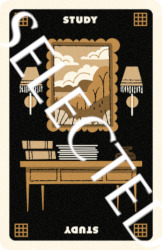
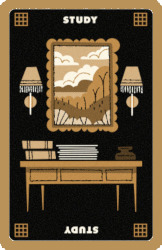
Implemented logic to move player sprites to hallways. - added hallway location points and modified the sprite move logic to determine if room is a hallway or not.
Created image assets for Selected Room cards. Room cards will show a gold border when selected in the move dialog.
- Added Cards for Hallways.

Changed region(s): [[0.0, 0.0, 1.0, 1.0], [0.1543, 0.224, 0.4012, 0.42]]

diff --git a/src/edu/jhu/teamundecided/clueless/database/RoomPoints.java b/src/edu/jhu/teamundecided/clueless/database/RoomPoints.java
@@ -11,6 +11,7 @@ public class RoomPoints
     private static RoomPoints _roomPoints = null;
 
     private HashMap<String, Point> _roomOffsets;
+    private HashMap<String, Point> _hallwayPositions;
 
     private ArrayList<Point> oneOccupant;
     private ArrayList<Point> twoOccupant;
@@ -26,6 +27,7 @@ public class RoomPoints
 
         setupRoomOffsets();
         setupOccupantPositions();
+        setupHallwayPositions();
     }
 
     public static RoomPoints getInstance()
@@ -96,6 +98,33 @@ public class RoomPoints
         sixOccupant.add(new Point(roomCP.getX() + 30, roomCP.getY() + 3));
     }
 
+    private void setupHallwayPositions()
+    {
+        _hallwayPositions = new HashMap<>();
+
+        _hallwayPositions.put("hallway_1", new Point(250 - spriteCP.getX(),100 - spriteCP.getY()));
+        _hallwayPositions.put("hallway_2", new Point(550 - spriteCP.getX(),100 - spriteCP.getY()));
+
+        _hallwayPositions.put("hallway_3", new Point(100 - spriteCP.getX(),250 - spriteCP.getY()));
+        _hallwayPositions.put("hallway_4", new Point(400 - spriteCP.getX(),250 - spriteCP.getY()));
+        _hallwayPositions.put("hallway_5", new Point(700 - spriteCP.getX(),250 - spriteCP.getY()));
+
+        _hallwayPositions.put("hallway_6", new Point(250 - spriteCP.getX(),350 - spriteCP.getY()));
+        _hallwayPositions.put("hallway_7", new Point(550 - spriteCP.getX(),350 - spriteCP.getY()));
+
+        _hallwayPositions.put("hallway_8", new Point(100 - spriteCP.getX(),550 - spriteCP.getY()));
+        _hallwayPositions.put("hallway_9", new Point(400 - spriteCP.getX(),550 - spriteCP.getY()));
+        _hallwayPositions.put("hallway_10", new Point(700 - spriteCP.getX(),550 - spriteCP.getY()));
+
+        _hallwayPositions.put("hallway_11", new Point(250 - spriteCP.getX(),700 - spriteCP.getY()));
+        _hallwayPositions.put("hallway_12", new Point(550 - spriteCP.getX(),700 - spriteCP.getY()));
+    }
+
+    public Point getHallwayPosition(String key)
+    {
+        return _hallwayPositions.get(key);
+    }
+
     private ArrayList<Point> getOccupantPositionList(int number)
     {
         switch(number)
@@ -120,13 +149,19 @@ public class RoomPoints
     {
         ArrayList<Point> updateLocations = new ArrayList<>();
 
-        Point roomOffset = _roomOffsets.get(roomName);
-
-        System.out.println("Occupant Number: " + occupantNum);
-
-        for(Point point : getOccupantPositionList(occupantNum))
+        Point roomPoint;
+        if(roomName.startsWith("hallway_"))
         {
-            updateLocations.add(new Point(point.getX() + roomOffset.getX(), point.getY() + roomOffset.getY()));
+            roomPoint = _hallwayPositions.get(roomName);
+            updateLocations.add(new Point(roomPoint.getX(), roomPoint.getY()));
+        }
+        else // normal room
+        {
+            roomPoint = _roomOffsets.get(roomName);
+            for (Point point : getOccupantPositionList(occupantNum))
+            {
+                updateLocations.add(new Point(point.getX() + roomPoint.getX(), point.getY() + roomPoint.getY()));
+            }
         }
 
         return updateLocations;

diff --git a/src/edu/jhu/teamundecided/clueless/database/Database.java b/src/edu/jhu/teamundecided/clueless/database/Database.java
@@ -11,6 +11,7 @@ public class Database
     private HashMap<String, Point> _startingLocations;
     private LinkedHashMap<String, String> _roomNames;
     private LinkedHashMap<String, String> _weaponNames;
+    private HashMap<String, String> _hallwayDirections;
 
     private ArrayList<String> _disabledCharacters;
 
@@ -24,6 +25,7 @@ public class Database
         setupStartingLocations();
         setupRoomNames();
         setupWeaponNames();
+        setupHallwayDirections();
         _disabledCharacters = new ArrayList<>();
     }
 
@@ -112,5 +114,30 @@ public class Database
     public synchronized ArrayList<String> getDisabledCharacters()
     {
         return _disabledCharacters;
+    }
+
+    private void setupHallwayDirections()
+    {
+        _hallwayDirections = new HashMap<>();
+        _hallwayDirections.put("ballroom", "hallway_9,north:hallway_11,west:hallway_12,east");
+        _hallwayDirections.put("billiardroom", "hallway_4,north:hallway_6,west:hallway_7,east:hallway_9,south");
+        _hallwayDirections.put("conservatory", "hallway_8,north:hallway_11,east");
+        _hallwayDirections.put("diningroom", "hallway_5,north:hallway_7,west:hallway_10,south");
+        _hallwayDirections.put("hall", "hallway_1,west:hallway_2,east:hallway_4,south");
+        _hallwayDirections.put("kitchen", "hallway_10,north:hallway_12,west");
+        _hallwayDirections.put("library", "hallway_3,north:hallway_6,east:hallway_8,south");
+        _hallwayDirections.put("lounge", "hallway_2,west:hallway_5,south");
+        _hallwayDirections.put("study", "hallway_1,east:hallway_3,south");
+        _hallwayDirections.put("ScarlettStartLoc", "hallway_2,south");
+        _hallwayDirections.put("MustardStartLoc", "hallway_5,west");
+        _hallwayDirections.put("GreenStartLoc", "hallway_11,north");
+        _hallwayDirections.put("PeacockStartLoc", "hallway_8,east");
+        _hallwayDirections.put("WhiteStartLoc", "hallway_12,north");
+        _hallwayDirections.put("PlumStartLoc", "hallway_3,east");
+    }
+
+    public String getHallwayDirections(String key)
+    {
+        return _hallwayDirections.get(key);
     }
 }

diff --git a/src/edu/jhu/teamundecided/clueless/client/dialogs/DialogController.java b/src/edu/jhu/teamundecided/clueless/client/dialogs/DialogController.java
@@ -59,18 +59,53 @@ public class DialogController
 
     public JPanel getMovePanel()
     {
-        String[] options = getMoveOptions().split(":");
-
+        String[] options;
+        String[] hallwayDir = new String[0];
         JPanel movePanel = new JPanel();
-
         ButtonGroup moveButtonGroup = new ButtonGroup();
-
         resetMoveList();
+
+        // CHECK FOR HALLWAYS
+        if(getMoveOptions().contains("#"))
+        {
+            // SPLIT OUT DIRECTIONS
+            String[] temp = getMoveOptions().split("#");
+
+            options = temp[0].split(":"); // room names
+            hallwayDir = temp[1].split(":"); // hallway directions
+        }
+        else
+        {
+            // NO HALLWAYS
+            options = getMoveOptions().split(":");
+        }
 
         for (String option : options)
         {
-            JRadioButton temp = new JRadioButton(new ImageIcon(_cardFilepath + "rooms/" + option + ".jpg"));
-            temp.setSelectedIcon(new ImageIcon(_cardFilepath + "rooms/selected/" + option + "Selected.jpg"));
+            JRadioButton temp;
+
+            // OPTION IS A HALLWAY, GET DIRECTION
+            if(option.contains("hallway_"))
+            {
+                String hallwayDirection = "";
+                for(String dir : hallwayDir)
+                {
+                    if(dir.startsWith(option))
+                    {
+                        hallwayDirection = dir.split(",")[1];
+                    }
+                }
+
+                temp = new JRadioButton(new ImageIcon(_cardFilepath + "rooms/" + hallwayDirection + ".jpg"));
+                temp.setSelectedIcon(new ImageIcon(_cardFilepath + "rooms/selected/" + hallwayDirection + "Selected.jpg"));
+            }
+            // NOT A HALLWAY
+            else
+            {
+                temp = new JRadioButton(new ImageIcon(_cardFilepath + "rooms/" + option + ".jpg"));
+                temp.setSelectedIcon(new ImageIcon(_cardFilepath + "rooms/selected/" + option + "Selected.jpg"));
+            }
+
             temp.setName(option);
             moveButtonGroup.add(temp);
             moveList.add(temp);

diff --git a/src/edu/jhu/teamundecided/clueless/server/ClientHandler.java b/src/edu/jhu/teamundecided/clueless/server/ClientHandler.java
@@ -161,10 +161,17 @@ public class ClientHandler extends Thread
 //        {
 //            moves.append(":" + roomname);
 //        }
+//
+//        if(_player.getLocation().getIsHall())
+//        {
+//            moves.append("#").append(database.getHallwayDirections(_player.getLocation().getRoomName()));
+//        }
 //        writeToClient(moves.toString());
 
+        // Hallway Directions
+
         // DEMO CODE
-        writeToClient("moveDialog:study:study:study");
+        writeToClient("moveDialog:hallway_1:hallway_2:hallway_4#" + database.getHallwayDirections("hall"));
     }
 
     public void updateLocations(String roomname)

diff --git a/src/edu/jhu/teamundecided/clueless/client/gameboard/ClientGameBoard.java b/src/edu/jhu/teamundecided/clueless/client/gameboard/ClientGameBoard.java
@@ -94,7 +94,7 @@ public class ClientGameBoard extends JPanel
             {
                 try
                 {
-                    Thread.sleep(80);
+                    Thread.sleep(25);
                 }
                 catch (InterruptedException e) {}
 
